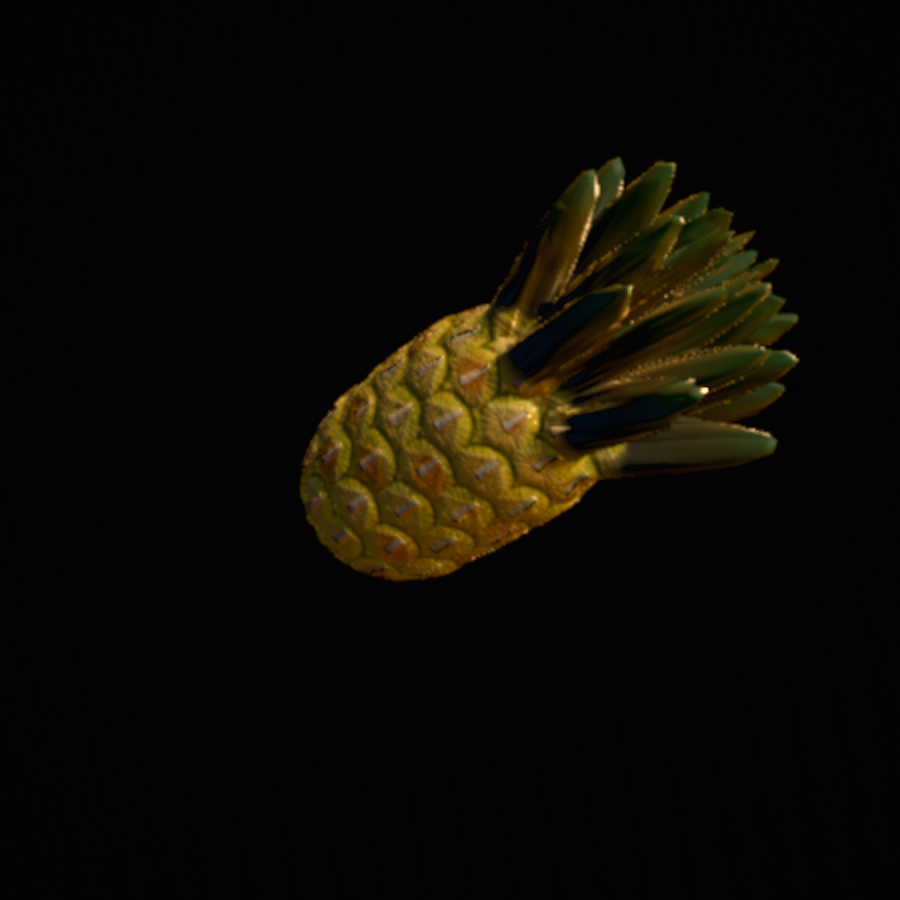
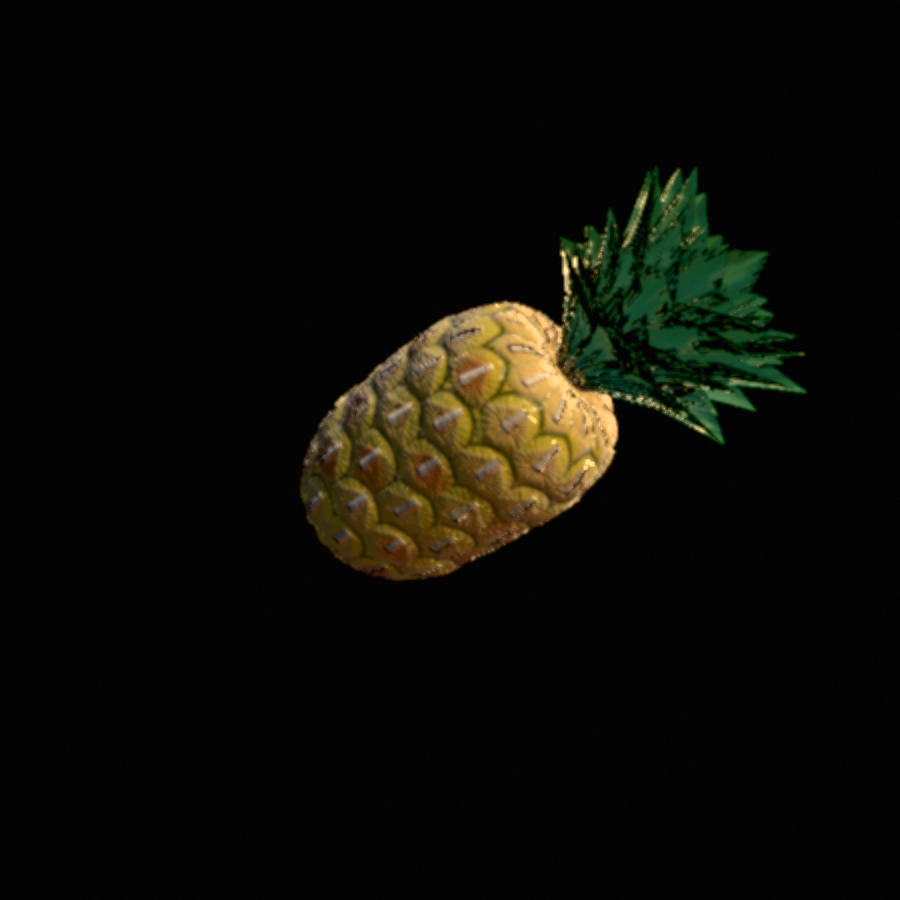
r48: the pineapple crown is real leaves on a small hub — a short rosette, not a Bart Simpson cut
The player: shorter than a real crown (slicing through leaves is not the
fun part), and it must rise from a small disc at the pole so the whole
shoulder of the fruit shows, instead of blades poking up out of the
entire top.

The radial-bump crown could not do that — a bump's root spans its polar
footprint, so "small footprint" and "leaning outward" are the same knob.
geometry.js already had the answer in the strawberry's calyx:
buildLeafCrown, authored pillow leaves on a hub with a spine that droops
outward and air under the blade. The pineapple now uses it: crown null,
four whorls (12/14/16/16 leaves) on a 0.20-radius hub, lengths 1.55 to
1.95 body radii (~45% of body height), widths 0.42–0.52, spines from
near-vertical inside to recurving outside. Nine geometry candidates over
three batches, judged front and tilt beside the reference; peak 63k
triangles, under budget.

Shading, all per-material options on the shared leaf law: leafFresh
(the brown-root ramp painted most of a real blade brown, since its uv
band starts at 1.0 at the hub); sheen gated off appendages like the
clearcoat (the shell's gold sheen glinted yellow on the leaves);
leafBloomSpan 1.0 and a per-species leafBloomColor (the reference crown
is waxy grey-green to the tips); leafGlow 0.35, a faint leaf-only
emissive standing in for translucency — the recurving outer leaves show
the camera their undersides, which rendered black over the void.
[…]

Changed region(s): [[0.3422, 0.1556, 0.9022, 0.6222], [0.4667, 0.6222, 0.4978, 0.6533], [0.4667, 0.4978, 0.4978, 0.5289]]

diff --git a/src/fruit/species.js b/src/fruit/species.js
@@ -2219,8 +2219,12 @@ function skinMaterial(sp, body, o = {}) {
       .toVar();
     // r47e `o.leafBloom`: a waxy grey-white bloom over the lower blade, as
     // on a pineapple crown's rosette — strongest at the root, gone by mid-blade
+    // `o.leafBloomSpan` (r48): how far up the blade the bloom reaches — 0.55
+    // is the root-only bloom of r47e; the pineapple's crown is waxy grey-green
+    // to the tips on the reference, so it runs the whole blade (1.0)
     const bloomed = o.leafBloom
-      ? mix(leafC.mul(tintV), fromKeyLit(0.1100, 0.1250, 0.1050), ss(0.55, 0.05, a.bh).mul(o.leafBloom))
+      ? mix(leafC.mul(tintV), o.leafBloomColor ? fromKeyLit(o.leafBloomColor[0], o.leafBloomColor[1], o.leafBloomColor[2]) : fromKeyLit(0.1100, 0.1250, 0.1050),
+          ss(o.leafBloomSpan ?? 0.55, 0.05, a.bh).mul(o.leafBloom))
       : leafC.mul(tintV);
     alb.assign(mix(alb, bloomed, a.leafy));
     alb.assign(mix(alb, woodC, a.wood));
@@ -2254,6 +2258,29 @@ function skinMaterial(sp, body, o = {}) {
     m.clearcoatNode = Fn(() => {
       const a = appendage();
       return float(cc0).mul(max(a.leafy, a.wood).mul(0.88).oneMinus());
+    })();
+  }
+  // r48 `o.leafGlow`: a faint self-lit term on foliage only — a stand-in for a
+  // thin leaf's translucency. The pineapple's recurving outer leaves show the
+  // camera their UNDERSIDES, which face away from the key over a black void
+  // and rendered as black spikes; a real crown's undersides are lit through.
+  if (o.leafGlow > 0) {
+    m.emissiveNode = Fn(() => {
+      const a = appendage();
+      const f = frame();
+      const vary = ringN(f.lon, 11.0, a.y.mul(2.2));
+      const base = o.leafFresh ? A_FOLF : A_FOL;
+      const tintV2 = o.leafTint ? vec3(o.leafTint[0], o.leafTint[1], o.leafTint[2]) : vec3(1.0, 1.0, 1.0);
+      return base.mul(tintV2).mul(vary.mul(0.15).add(1.0)).mul(a.leafy.mul(o.leafGlow));
+    })();
+  }
+  // r48: the same for SHEEN — the pineapple's gold sheen on its leaves read as
+  // a yellow glint where the reference crown has a grey-white bloom
+  if ((o.mat && o.mat.sheen) > 0) {
+    const sh0 = o.mat.sheen;
+    m.sheenNode = Fn(() => {
+      const a = appendage();
+      return float(sh0).mul(max(a.leafy, a.wood).mul(0.9).oneMinus());
     })();
   }
 
@@ -4068,7 +4095,11 @@ def({
       bump: 0.0220,
       // the crown: brighter grey-green, calmer ribs (the 26-per-turn rib ran
       // as striping on the device)
-      leafTint: [1.30, 1.28, 1.22], rib: 0.6, leafBloom: 0.55, capK: 1.12,
+      // r48: real leaves (geometry.js buildLeafCrown) — green from the root
+      // like the strawberry's calyx; the shared brown-root ramp painted most
+      // of a real blade brown, since its uv band starts at 1.0 at the hub
+      leafFresh: true, leafTint: [1.60, 1.60, 1.55], rib: 0.5,
+      leafBloom: 0.75, leafBloomSpan: 1.0, leafBloomColor: [0.1700, 0.1950, 0.1600], leafGlow: 0.35, capK: 1.12,
       // r47i: the shell GLINTS — a waxed rind under the key. Clearcoat and
       // specular up (the player: "I want light to really glint off this")
       mat: {

diff --git a/src/fruit/geometry.js b/src/fruit/geometry.js
@@ -2020,12 +2020,17 @@ export const SHAPE_VARIANTS = {
       },
       pineapple: {
         lumps: 0.010,
-        crown: {
-          cols: 88,
+        // r48: REAL LEAVES (buildLeafCrown), as the strawberry's calyx — a
+        // rosette on a small hub at the pole, spines curving outward, air
+        // under the blades. The body crown is deleted.
+        crown: null,
+        leaves: {
+          rootR: 0.2, rootLift: 0.03,
           whorls: [
-            { n: 8, a: 0.12, len: 1.911, wArc: 0.0820, round: true, skew: 0.25, wp: 0.220, pPol: 3.00, pAz: 1.15, phase: 0.00, jit: 0.05, jitA: 0.024 },
-            { n: 8, a: 0.29, len: 1.732, wArc: 0.0950, round: true, skew: 0.30, wp: 0.220, pPol: 3.00, pAz: 1.15, phase: 0.33, jit: 0.06, jitA: 0.028 },
-            { n: 8, a: 0.46, len: 1.466, wArc: 0.1070, round: true, skew: 0.55, wp: 0.220, pPol: 3.00, pAz: 1.15, phase: 0.67, jit: 0.07, jitA: 0.032 },
+            { n: 12, beta: 0.06, len: 1.55, width: 0.51, thick: 0.06, droop: 0.22, kick: 0.05, cup: 0.45, jitPhi: 0.1, jitBeta: 0.05, jitLen: 0.1 },
+            { n: 14, beta: 0.18, len: 1.75, width: 0.6, thick: 0.06, droop: 0.42, kick: 0.12, cup: 0.45, phase: 0.5, jitPhi: 0.1, jitBeta: 0.08, jitLen: 0.12 },
+            { n: 16, beta: 0.34, len: 1.65, width: 0.63, thick: 0.06, droop: 0.62, kick: 0.22, cup: 0.45, phase: 0.25, jitPhi: 0.1, jitBeta: 0.1, jitLen: 0.12 },
+            { n: 16, beta: 0.55, len: 1.3, width: 0.63, thick: 0.06, droop: 0.85, kick: 0.3, cup: 0.45, phase: 0.75, jitPhi: 0.12, jitBeta: 0.12, jitLen: 0.14 },
           ],
         },
       },
